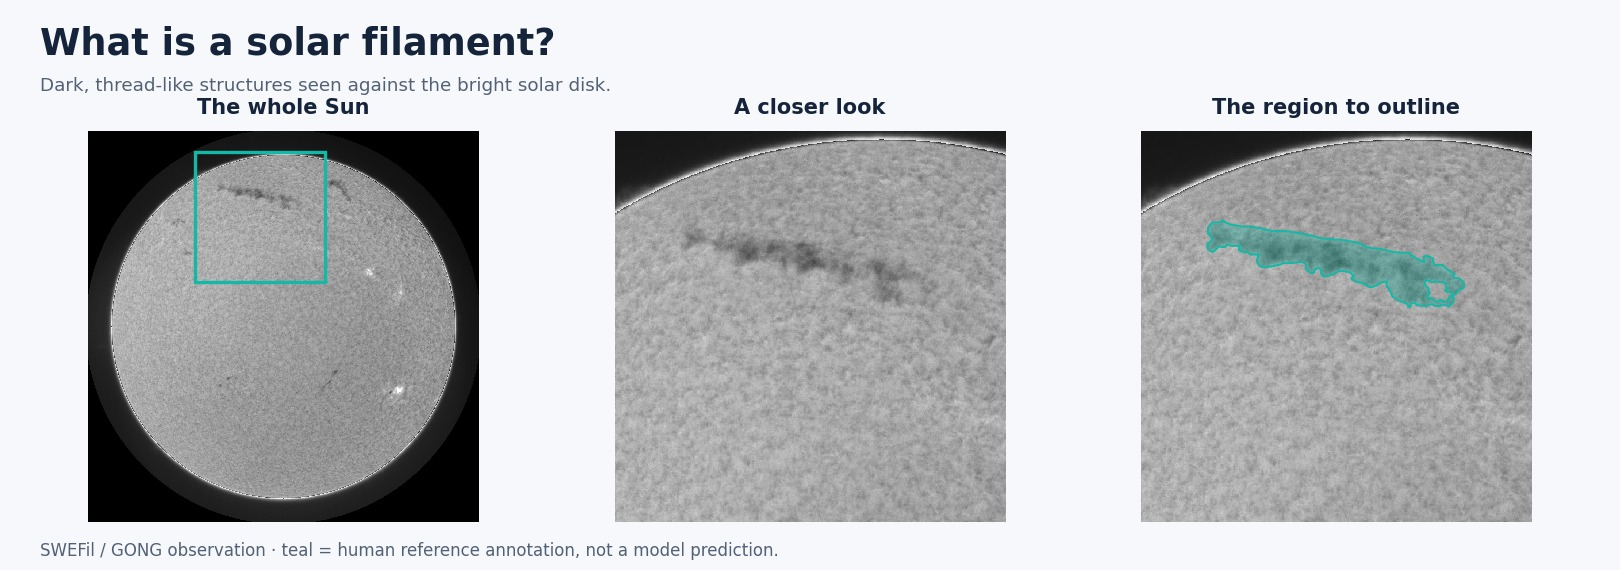
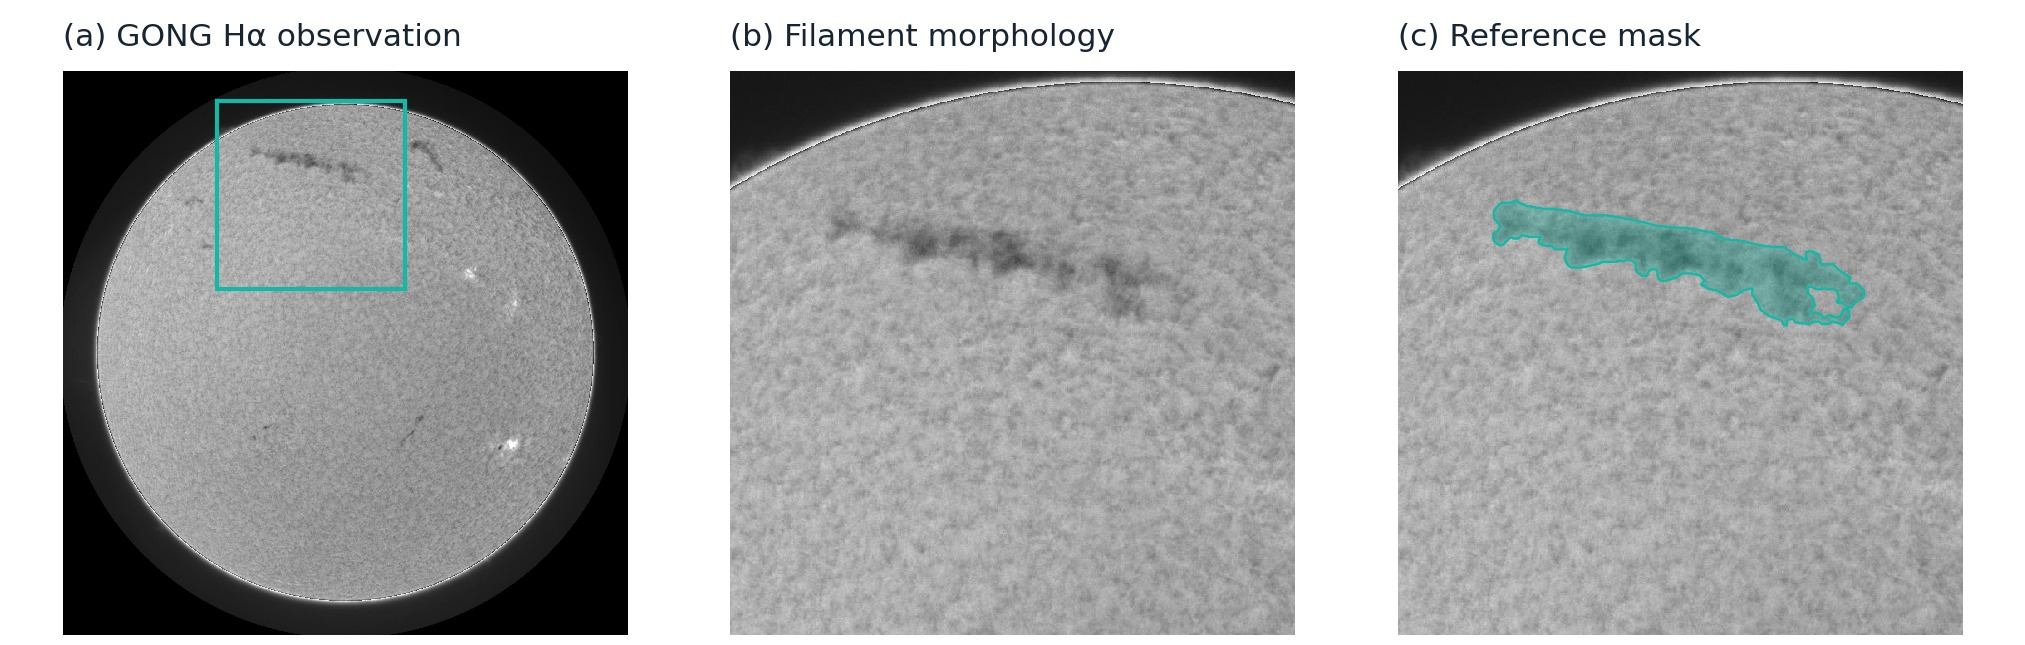
Refine README into a scientific visual overview

diff --git a/tools/build_readme_figures.py b/tools/build_readme_figures.py
@@ -24,7 +24,7 @@ from submission_inference import limb, preprocess_variant
 SWE = '20100604185114Th'
 OBS = '20120330063134Lh'
[1 lines of base64/hex data omitted]
-BG, INK, MUTED = '#f6f8fb', '#15243a', '#526175'
+BG, INK = '#ffffff', '#172432'
 TEAL, GOLD, BLUE = '#13b8a6', '#f7b343', '#53a6ef'
 plt.rcParams.update({'font.family':'DejaVu Sans','font.size':12,'text.color':INK})
 
@@ -48,13 +48,12 @@ def decode(rle):
     return result
 
 
-def canvas(title, subtitle, labels, width=13.5):
-    fig,axes=plt.subplots(1,len(labels),figsize=(width,4.75),facecolor=BG)
-    fig.subplots_adjust(left=.018,right=.982,top=.77,bottom=.085,wspace=.035)
-    fig.text(.025,.955,title,fontsize=22,fontweight='bold',va='top')
-    fig.text(.025,.865,subtitle,fontsize=11,color=MUTED,va='top')
+def canvas(labels, width=13.5):
+    """Compact scientific panels; detailed provenance lives in the asset guide."""
+    fig,axes=plt.subplots(1,len(labels),figsize=(width,4.3),facecolor=BG)
+    fig.subplots_adjust(left=.012,right=.988,top=.89,bottom=.015,wspace=.04)
     for ax,label in zip(axes,labels):
-        ax.set_title(label,fontsize=12.5,fontweight='bold',pad=10)
+        ax.set_title(label,fontsize=15,fontweight='medium',pad=12,loc='left')
         ax.set_axis_off()
     return fig,axes
 
@@ -71,7 +70,7 @@ def overlay(ax,mask,color,alpha=.32):
 
 
 def save(fig,path):
-    fig.savefig(path,dpi=120,facecolor=BG,pil_kwargs={'quality':92,'optimize':True})
+    fig.savefig(path,dpi=150,facecolor=BG,pil_kwargs={'quality':92,'optimize':True})
     plt.close(fig)
 
 
@@ -96,21 +95,15 @@ def build(inputs,output):
     target=decode(annotation['segmentation'])
     # Fixed editorial crop: selected for a visible long filament, not a model score.
     x0,y0,x1,y1=560,110,1240,790
-    fig,axes=canvas('What is a solar filament?',
-        'Dark, thread-like structures seen against the bright solar disk.',
-        ['The whole Sun','A closer look','The region to outline'])
+    fig,axes=canvas(['(a) GONG Hα observation','(b) Filament morphology','(c) Reference mask'])
     show(axes[0],image);axes[0].add_patch(Rectangle((x0,y0),x1-x0,y1-y0,fill=False,edgecolor=TEAL,linewidth=2))
     crop=image[y0:y1,x0:x1];show(axes[1],crop);show(axes[2],crop)
     overlay(axes[2],target[y0:y1,x0:x1],TEAL)
-    fig.text(.025,.025,'SWEFil / GONG observation · teal = human reference annotation, not a model prediction.',fontsize=10,color=MUTED)
     save(fig,output/'filament_intro.jpg')
 
     raw=gray(paths['swefil_raw']);corrected=limb(raw);contrast=preprocess_variant(corrected,'clahe16')
-    fig,axes=canvas('Prepare the image before looking for filaments',
-        'The same observation and display range in every panel.',
-        ['Original observation','Balance center-to-edge brightness','One extra YOLO contrast view'])
+    fig,axes=canvas(['(a) Original intensity','(b) Radial correction','(c) Local contrast · YOLO'])
     for ax,value in zip(axes,(raw,corrected,contrast)): show(ax,value)
-    fig.text(.025,.025,'Actual preprocessing from this repository · the extra contrast view is used by YOLO, not by both models.',fontsize=10,color=MUTED)
     save(fig,output/'preprocessing.jpg')
 
     tiles=json.loads((paths['pixel_tiles']/'manifest.json').read_text())
@@ -144,9 +137,7 @@ def build(inputs,output):
     foreground=[('native_'+str(i),decode(a['rle'])) for i,a in enumerate(native['tta']['components']['0.5']) if a['area']>=300]
     final=csv_masks(paths['final_csv'])
     selected=[]
-    fig,axes=canvas('Two independent models, one final set of masks',
-        'Real saved predictions for the same validation crop. Each final color marks one predicted filament.',
-        ['Input crop','YOLO candidates','U-Net candidates','Final combined masks'],width=14.8)
+    fig,axes=canvas(['(a) Hα crop','(b) YOLO26s-seg','(c) ConvNeXt–U-Net','(d) Fused instances'],width=15.8)
     for ax in axes: show(ax,patch)
     for ax,masks,palette in ((axes[1],yolo,[BLUE]),(axes[2],foreground,[GOLD]),(axes[3],final,[TEAL,'#ed7ba7','#a99bf6'])):
         visible=[]
@@ -157,7 +148,6 @@ def build(inputs,output):
                 overlay(ax,cropped,color)
                 visible.append(name)
         selected.append(visible)
-    fig.text(.025,.025,'GONG / MAGFiLO validation observation · 2012-03-30 · limb-corrected pixels · archived YOLO + best84 baseline.',fontsize=10,color=MUTED)
     save(fig,output/'model_predictions.jpg')
     provenance=dict(
         description='Scientific displays of existing observations, annotations and archived predictions; no new inference.',

diff --git a/README.md b/README.md
@@ -1,24 +1,20 @@
 # Solar Filament Segmentation 2026
 
-Finding and outlining dark, thread-like structures on the Sun with deep learning.
+**Instance segmentation of solar filaments in full-disk Hα observations.**
 
-[Competition](https://www.kaggle.com/competitions/filament-segmentation-2026) · [Run in Colab](https://colab.research.google.com/github/ikjoo5/solar_filament/blob/main/notebooks/SolarFilament_GitHub_Colab.ipynb) · [Technical guide](docs/TECHNICAL_GUIDE.md) · [Korean documentation](README.ko.md)
+A complementary detection and segmentation pipeline for the [2026 Solar Filament Segmentation Challenge](https://www.kaggle.com/competitions/filament-segmentation-2026).
 
-## What are we looking for?
+## Scientific context
 
-**Solar filaments** are clouds of relatively cool, dense plasma held above the Sun's surface by magnetic fields. Against the bright solar disk, they appear as dark threads or ribbons. These images come from **GONG**, a network of solar observatories, and show the Sun in **Hα**: a wavelength of light associated with hydrogen.
+Solar filaments are relatively cool, dense plasma structures suspended in the solar atmosphere by magnetic fields. Observed against the solar disk in the hydrogen **Hα line at 656.28 nm**, they appear as dark, elongated features. Their irregular boundaries, fragmented appearance, and proximity to other dark structures make automated identification challenging.
 
-![Full solar disk, a close-up of a dark filament, and its human-labeled outline.](docs/assets/readme/filament_intro.jpg)
+![Full-disk Hα observation, filament detail, and filament outline.](docs/assets/readme/filament_intro.jpg)
 
-*The teal outline is a human annotation from the public SWEFil dataset. It illustrates the region a model should learn to identify.*
-
-The [2026 Kaggle competition](https://www.kaggle.com/competitions/filament-segmentation-2026) asks us to find **each individual filament and outline its pixels** in 2048 × 2048 solar images. A pixel-by-pixel map of the selected region is called a **mask**. Faint structures, uneven brightness, and nearby dark features such as sunspots make the task difficult.
-
-The score, **Panoptic Quality (PQ)**, rewards both finding the right objects and tracing their shapes accurately. Missing a filament, inventing one, or combining separate filaments can all lower the score.
+This project identifies **individual filaments and their pixel boundaries** in 2048 × 2048 observations from the Global Oscillation Network Group (**GONG**). The objective is to preserve faint structure while distinguishing neighboring objects across the full solar disk.
 
 ## Model pipeline at a glance
 
-Our submitted baseline combines **two independent models**. YOLO identifies individual filament candidates; a ConvNeXt-Tiny U-Net estimates which pixels belong to filaments. `best84` is the name of our selected U-Net checkpoint.
+The submitted baseline combines **YOLO26s-seg** with a **ConvNeXt-Tiny encoder and U-Net decoder**. YOLO proposes object masks; U-Net estimates filament probability at each pixel. The two networks process images independently, bringing complementary evidence to instance reconstruction. `best84` identifies the selected U-Net checkpoint.
 
 ```mermaid
 flowchart LR
@@ -30,43 +26,27 @@ flowchart LR
     M --> R["Non-overlap masks<br/>RLE CSV"]
 ```
 
-Both models look at image inputs. Their predictions meet at the mask-combination stage.
+The encoder extracts features at multiple spatial resolutions. The decoder combines these features through skip connections to recover fine spatial detail. Its foreground probability map supplies additional candidates and boundary evidence to the ensemble.
 
-## From a solar image to separate filament masks
+## Image formation and preprocessing
 
-### 1. Make faint structures easier to see
+Solar **limb darkening** produces a systematic brightness decrease from the disk center toward its edge. Limb correction reduces this radial variation, followed by normalization appropriate to each model.
 
-The Sun's disk naturally looks darker toward its edge. **Limb-darkening correction** balances this center-to-edge brightness. The models also receive normalized pixel values so the input matches their training setup.
+![Hα observation before correction, after limb correction, and with local contrast enhancement.](docs/assets/readme/preprocessing.jpg)
 
-![The same solar observation before processing, after limb-darkening correction, and with an extra contrast view for YOLO.](docs/assets/readme/preprocessing.jpg)
+The YOLO branch evaluates additional contrast and filtering views, including **contrast-limited adaptive histogram equalization (CLAHE)**. Overlapping tiles retain small structures at full resolution, while geometric views sample different orientations. The U-Net branch uses limb-corrected 1024-pixel tiles with 25% overlap and four-orientation inference.
 
-The YOLO branch also examines several contrast and filtering variants, including **CLAHE**, which adjusts contrast within small image regions. The figure shows one such view. The U-Net branch uses its own limb-corrected, normalized input.
+## Instance reconstruction
 
-### 2. Look closely with two models
+Predictions are mapped back to the original image coordinates. Agreement across views supports candidate selection; U-Net probabilities guide conditional additions and boundary refinement. Duplicate removal, candidate filtering, and overlap resolution produce a set of distinct filament instances.
 
-Large images are examined in **overlapping crops** to retain small details. Flipped views let the models look at the same structure in different orientations; their predictions are then mapped back to the original image.
+![Input crop, YOLO candidates, U-Net candidates, and combined filament instances.](docs/assets/readme/model_predictions.jpg)
 
-- **YOLO26s-seg:** proposes separate objects and their masks.
-- **ConvNeXt-Tiny + U-Net:** recognizes patterns and turns them into a pixel-by-pixel filament map. This provides additional candidates and evidence about boundaries.
-
-![One validation crop shown as input, with YOLO candidates, with U-Net candidates, and with the final combined masks.](docs/assets/readme/model_predictions.jpg)
-
-*These are actual saved predictions from the YOLO + best84 validation pipeline. Blue shows YOLO candidates, gold shows U-Net candidates, and each final color marks a separate predicted filament. This example illustrates how the branches can disagree about boundaries; it is not a new evaluation run.*
-
-### 3. Combine the evidence and clean up
-
-Postprocessing turns the model outputs into the final set of objects:
-
-- **Check agreement across views:** use repeated detections to assess candidate reliability.
-- **Combine and refine:** add supported candidates and selectively adjust boundaries using U-Net evidence.
-- **Remove duplicates and weak candidates:** reduce repeated detections and false alarms.
-- **Resolve overlaps:** assign overlapping pixels so the submitted masks remain separate.
-
-The masks are returned to the original image coordinates and encoded as **RLE**—a compact way to store mask pixels as text—for the submission CSV. The [pipeline guide](docs/CURRENT_PIPELINE.md) documents the exact recipe.
+Each output pixel belongs to at most one instance. Final masks retain the original 2048 × 2048 coordinate system and are stored as compressed COCO run-length encoding (**RLE**) in the submission CSV.
 
 ## Where the context block fits
 
-A faint filament may be easier to recognize when the model considers its surroundings. Our **context-block experiment** adds that wider view inside U-Net, between its encoder and decoder:
+The optional context block is **experimental and disabled in the submitted baseline**. It operates on the encoder's deepest feature map, combining parallel dilated convolutions with a pooled summary of the current crop. A learned residual gate controls the contribution of this wider context; shallower skip features preserve local detail.
 
 ```mermaid
 flowchart LR
@@ -80,27 +60,29 @@ flowchart LR
     style C fill:#fff4d6,stroke:#ad6800,stroke-width:2px,color:#111111
 ```
 
-The **encoder** extracts visual patterns; the **decoder** builds the pixel map. The optional block mixes nearby detail, wider surroundings, and a summary of the crop. A learned gate controls how much of this extra information is added.
+## Evaluation
 
-**The solid path is the submitted baseline. The dashed path is the experimental context block.** The block is implemented but is not enabled in the submitted best84 pipeline or the current mixed-data training run. See the [architecture walkthrough](docs/MODEL_ARCHITECTURE.md) for its calculations and results.
+**Panoptic Quality (PQ)** measures both instance recognition and boundary agreement:
 
-## Current progress and getting started
+$$
+\mathrm{PQ} = \frac{\sum_{(p,g)\in\mathrm{TP}} \operatorname{IoU}(p,g)}{|\mathrm{TP}| + \tfrac{1}{2}|\mathrm{FP}| + \tfrac{1}{2}|\mathrm{FN}|}
+$$
 
-The independently generated **YOLO + best84 baseline scored 0.39 on the public leaderboard**. Its selected development-validation PQ was **0.472593**; this repeatedly used validation set is a different measurement from the leaderboard.
+Predicted and annotated masks match when their intersection over union (**IoU**) exceeds 0.5. Unmatched predictions and annotations contribute false positives and false negatives. Evaluation accumulates matched IoU and object counts across annotator–image groups.
 
-Current training work explores a fresh U-Net with GONG images, labeled SWEFil observations, and CHASE-derived synthetic filament shapes. The completed mixed-data run reached native-only development PQ **0.410866**. Its [test-submission notebook](https://colab.research.google.com/github/ikjoo5/solar_filament/blob/main/notebooks/SolarFilament_SWEFil_Test_T4.ipynb) evaluates the selected epoch100 model on the competition test images; its leaderboard score remains unmeasured. See the [training guide](docs/SWEFIL_RETRAINING_PLAN.md) for the experiment details.
+| Submitted YOLO + best84 ensemble | PQ |
+|---|---:|
+| Selected development validation | **0.472593** |
+| Public leaderboard | **0.39** |
 
-| To explore further | Start here |
-|---|---|
-| Run the submitted baseline | [Colab notebook](https://colab.research.google.com/github/ikjoo5/solar_filament/blob/main/notebooks/SolarFilament_GitHub_Colab.ipynb) |
-| Install, evaluate, or create a submission | [Technical guide](docs/TECHNICAL_GUIDE.md) |
-| Understand the models and context block | [Architecture walkthrough](docs/MODEL_ARCHITECTURE.md) |
-| Follow experiment history and recorded scores | [Current pipeline](docs/CURRENT_PIPELINE.md) · [Results](docs/TECHNICAL_GUIDE.md#recorded-results) |
+Development validation was used repeatedly for model and parameter selection. The public leaderboard is a separate measurement on the competition test set.
 
-Code and small explanatory figures are included here. Full datasets, trained weights, and prediction exports are stored separately; the execution guides explain which files are needed.
+## References
 
-## Images and acknowledgments
+- Ronneberger, Fischer & Brox (2015). [U-Net: Convolutional Networks for Biomedical Image Segmentation](https://arxiv.org/abs/1505.04597).
+- Liu et al. (2022). [A ConvNet for the 2020s](https://arxiv.org/abs/2201.03545).
+- Kirillov et al. (2019). [Panoptic Segmentation](https://arxiv.org/abs/1801.00868).
 
-The introduction uses a GONG observation and human annotation from **SWEFil**, by Antonio Reche and Consuelo Cid ([CC BY 4.0](https://creativecommons.org/licenses/by/4.0/)). The prediction example uses a crop from this project's GONG/MAGFiLO validation data and its archived model outputs. Solar observations are credited to **GONG / NSO Integrated Synoptic Program**. [Image sources, processing details, and reproduction instructions](docs/assets/readme/README.md).
+[Architecture](docs/MODEL_ARCHITECTURE.md) · [Methods and recorded results](docs/CURRENT_PIPELINE.md) · [Technical reference](docs/TECHNICAL_GUIDE.md)
 
-The visual introduction was inspired by [Agnuxo1's competition repository](https://github.com/Agnuxo1/solar-filament-segmentation-2026). The figures shown here were created for this project from the sources above.
+GONG / NSO solar observations. [Figure sources and credits](docs/assets/readme/README.md).
